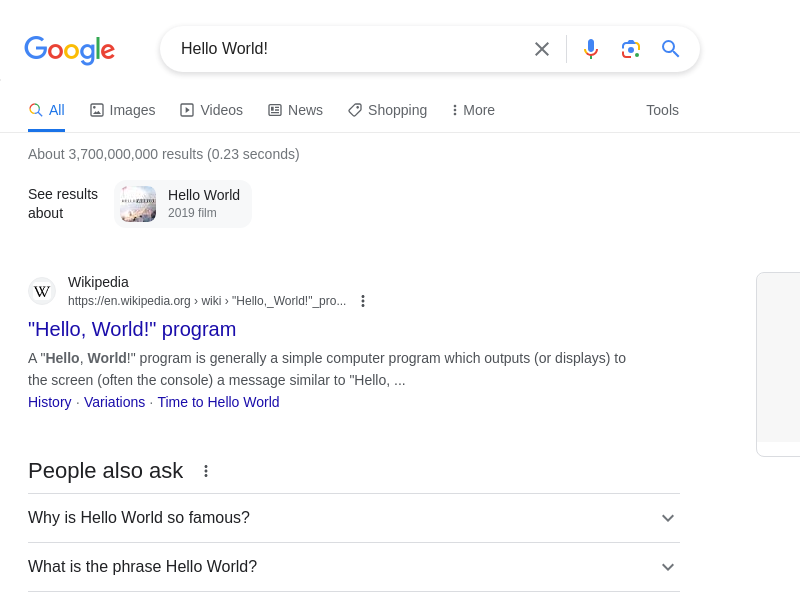
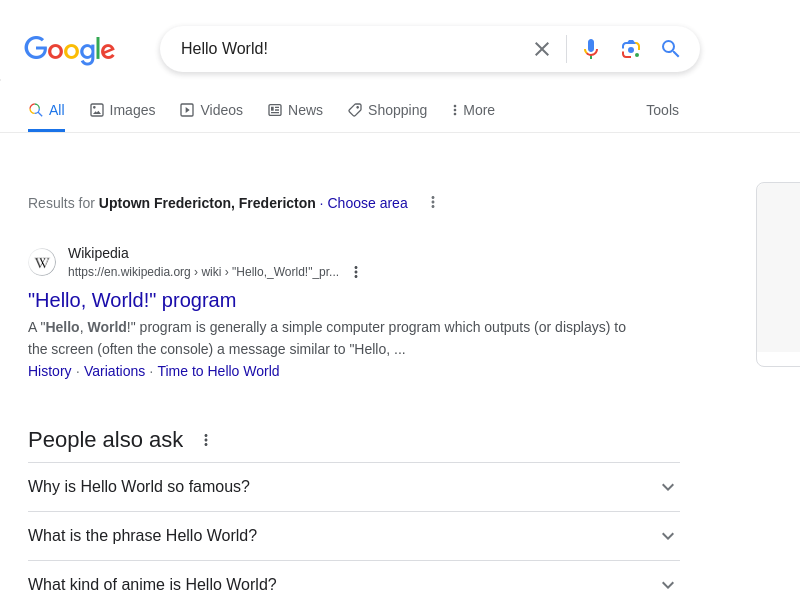
Changes to example program

diff --git a/screenshot.js b/screenshot.js
@@ -1,4 +1,7 @@
 const puppeteer = require('puppeteer');
+const prompt = require('prompt-sync')({sigint: true});
+
+let input = prompt("Please enter your query: ");
 
 (async () => {
   // Open browser
@@ -9,7 +12,7 @@ const puppeteer = require('puppeteer');
   await page.goto('https://www.google.com');
 
   // Type "Hello World!" in the search input and press Enter
-  await page.type("*[name='q']", 'Hello World!');
+  await page.type("*[name='q']", input);
   await page.keyboard.press('Enter');
 
   // Wait for search results to load
